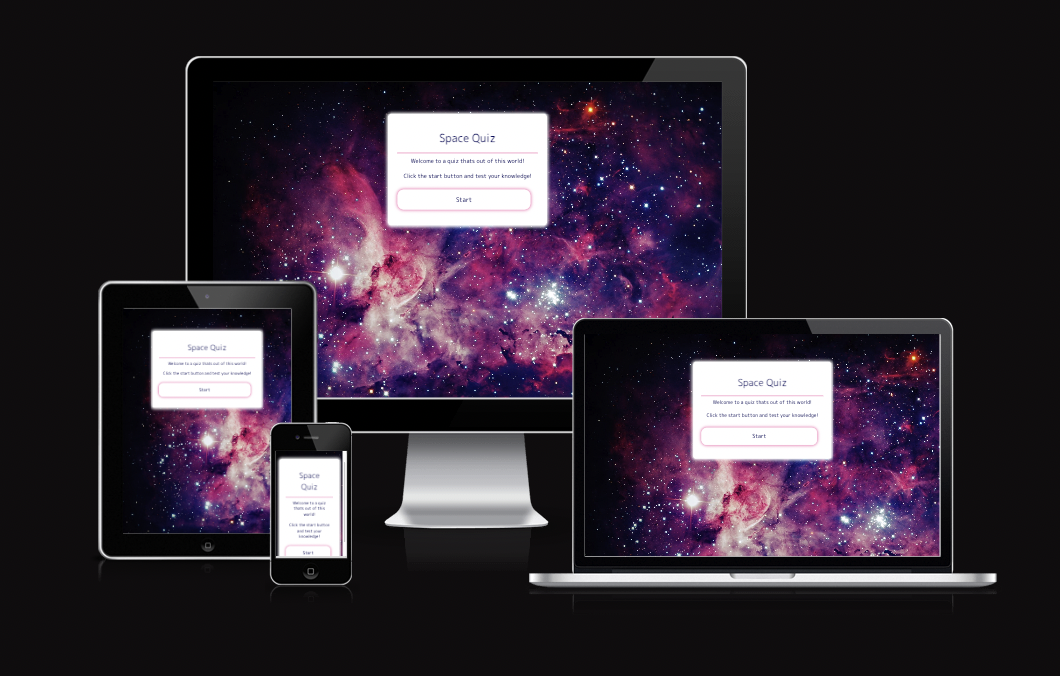
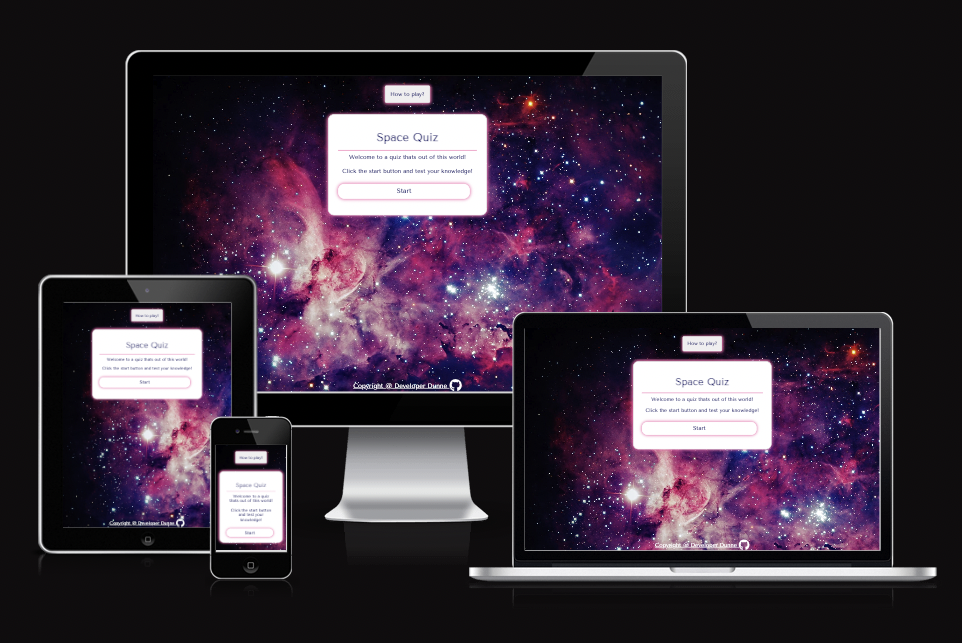
Added more images to readme images

diff --git a/assets/css/style.css b/assets/css/style.css
@@ -77,13 +77,13 @@ body {
   padding: 30px;
   border: 2px solid whitesmoke;
   box-shadow: #f76dae 0 0 10px 2px;
-  max-height: 68%;
+  max-height: 70%;
 }
 
 #heading {
   border-bottom: 1px solid #f76dae;
   text-align: center;
-  font-size: 25px;
+  font-size: 28px;
   padding:15px;
 }
 
@@ -193,7 +193,7 @@ a {
     font-size: 15px;
   }
   #social {
-    margin-bottom: -10px;
+    margin-bottom: 10px;
     font-size: 20px;
   }
 }
